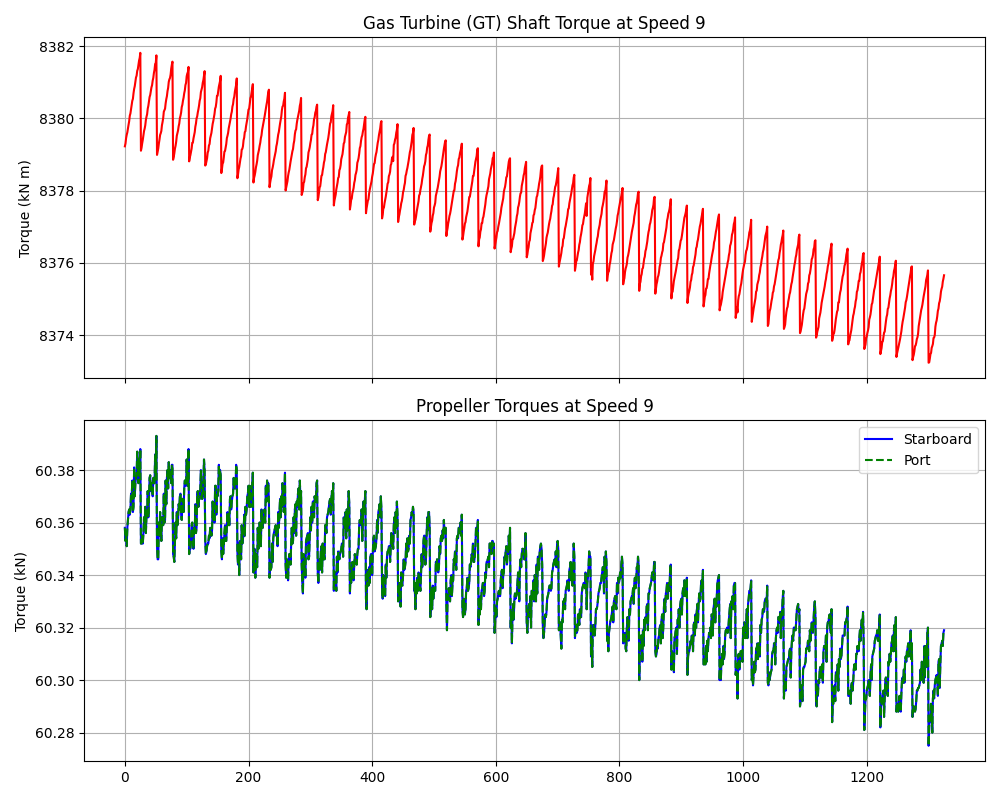
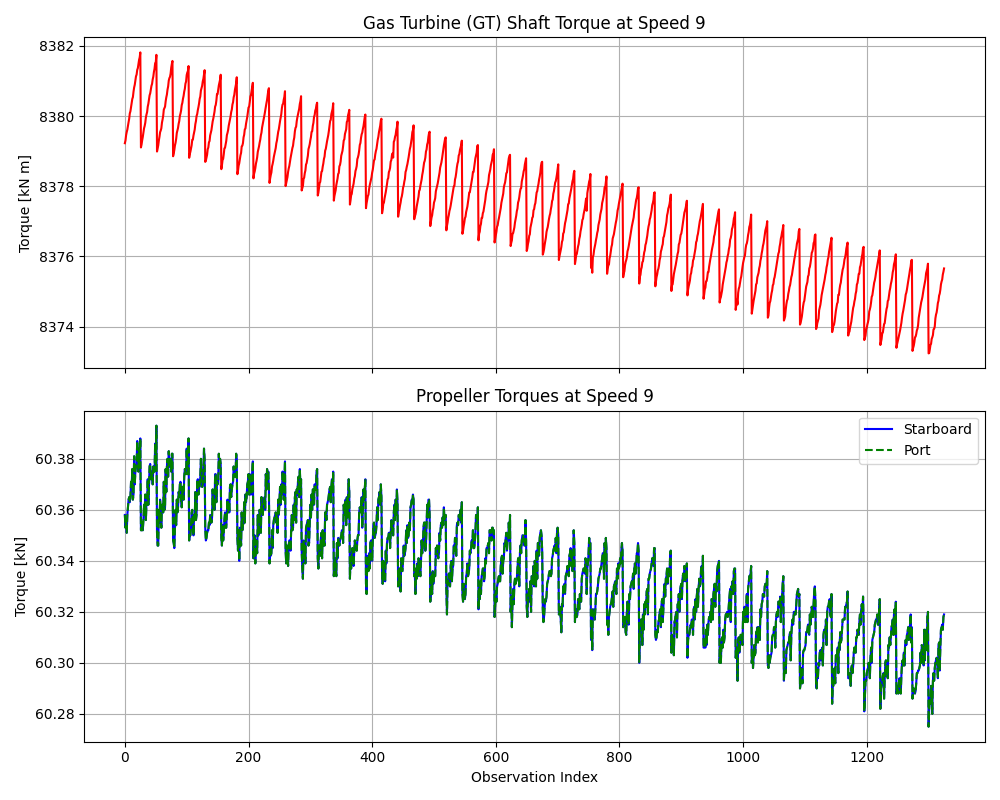
Fixed main saved images and svm edited

diff --git a/main.py b/main.py
@@ -1,91 +1,86 @@
 import pandas as pd
 import matplotlib.pyplot as plt
 import seaborn as sns
+import os
+
+# 1. Setup and Path Configuration
 plt.close('all')
-# 1. Load data
+# Define the directory where images will be saved
+image_dir = 'images'
+if not os.path.exists(image_dir):
+    os.makedirs(image_dir)
+
+# 2. Load and Initial Cleaning
 df = pd.read_csv('Data/data.csv')
 df.columns = df.columns.str.strip()
 
-# 2. Capture the duplicates before dropping them
+# 3. Capture and Handle Duplicates
 # keep='first' marks all but the first occurrence as a duplicate
 duplicate_rows = df[df.duplicated(keep='first')]
 
-# Save the duplicates to a list of dictionaries (if you want a Python list)
-dropped_duplicates_list = duplicate_rows.to_dict('records')
-
-# OR Save them to a CSV file to inspect them 
 if not duplicate_rows.empty:
     duplicate_rows.to_csv('dropped_duplicates.csv', index=False)
     print(f"Captured {len(duplicate_rows)} duplicate rows.")
 else:
     print("No duplicates found.")
 
-# 3. Now proceed with cleaning the main dataframe
+# Proceed with cleaning the main dataframe
 df = df.drop_duplicates()
 df = df.dropna()
 
 speed_counts = df['Ship speed (v)'].value_counts().sort_index()
+print("Speed observation counts:\n", speed_counts)
 
-print(speed_counts)
-
-# Define the columns we want to track
-gt_torque = 'Gas Turbine (GT) shaft torque (GTT) [kN m]'
-prop_torques = ['Starboard Propeller Torque (Ts) [kN]', 'Port Propeller Torque (Tp) [kN]']
-
-# Get a sorted list of all unique speeds (3, 6, 9, etc.)
-unique_speeds = sorted(df['Ship speed (v)'].unique())
-
-# Loop through each speed and generate a plot
-for speed in unique_speeds:
-    # Filter data for the current speed
-    speed_df = df[df['Ship speed (v)'] == speed].reset_index(drop=True)
-
-    # Create the subplots
-    fig, axes = plt.subplots(2, 1, figsize=(10, 8), sharex=True)
-
-    # Top Graph: GT Shaft Torque
-    axes[0].plot(speed_df[gt_torque], color='red')
-    axes[0].set_title(f'Gas Turbine (GT) Shaft Torque at Speed {speed}')
-    axes[0].set_ylabel('Torque [kN m]')
-    axes[0].grid(True)
-
-    # Bottom Graph: Propeller Torques
-    axes[1].plot(speed_df[prop_torques[0]], color='blue', label='Starboard')
-    axes[1].plot(speed_df[prop_torques[1]], color='green', linestyle='--', label='Port')
-    axes[1].set_title(f'Propeller Torques at Speed {speed}')
-    axes[1].set_ylabel('Torque [kN]')
-    axes[1].set_xlabel('Observation Index')
-    axes[1].legend()
-    axes[1].grid(True)
-
-    plt.tight_layout()
-
-
-    # Close the plot to free up memory before moving to the next one
-    plt.show()
+# 4. Define Column Names (matching root main.py headers)
 speed_col = 'Ship speed (v)'
-torque_col = 'Gas Turbine (GT) shaft torque (GTT) [kN m]'
+gt_torque_col = 'Gas Turbine (GT) shaft torque (GTT) [kN m]'
+prop_torques = ['Starboard Propeller Torque (Ts) [kN]', 'Port Propeller Torque (Tp) [kN]']
 fuel_col = 'Fuel flow (mf) [kg/s]'
 
-# 2. Preparation
+# Get sorted list of unique speeds for the loop
 unique_speeds = sorted(df[speed_col].unique())
-plt.close('all')  # Clear any lingering plots in memory/PyCharm cache
 
-# 3. Automation Loop
+# 5. Automation Loop for Speed-Based Visualization
 for speed in unique_speeds:
     # Filter data for this specific speed
     speed_df = df[df[speed_col] == speed].reset_index(drop=True)
 
-    # Create a figure with 2 subplots (top and bottom)
-    fig, (ax1, ax2) = plt.subplots(2, 1, figsize=(10, 8), sharex=True)
+    # --- PLOT 1: GT Shaft Torque & Propeller Torques ---
+    fig1, axes1 = plt.subplots(2, 1, figsize=(10, 8), sharex=True)
 
-    # Plot 1: Turbine Torque
-    ax1.plot(speed_df[torque_col], color='tab:red', linewidth=1.5)
+    # Top Graph: GT Shaft Torque
+    axes1[0].plot(speed_df[gt_torque_col], color='red')
+    axes1[0].set_title(f'Gas Turbine (GT) Shaft Torque at Speed {speed}')
+    axes1[0].set_ylabel('Torque [kN m]')
+    axes1[0].grid(True)
+
+    # Bottom Graph: Propeller Torques
+    axes1[1].plot(speed_df[prop_torques[0]], color='blue', label='Starboard')
+    axes1[1].plot(speed_df[prop_torques[1]], color='green', linestyle='--', label='Port')
+    axes1[1].set_title(f'Propeller Torques at Speed {speed}')
+    axes1[1].set_ylabel('Torque [kN]')
+    axes1[1].set_xlabel('Observation Index')
+    axes1[1].legend()
+    axes1[1].grid(True)
+
+    plt.tight_layout()
+    # Save propeller torque plots to images directory
+    prop_path = os.path.join(image_dir, f'propeller_torque_speed_{speed}.png')
+    plt.savefig(prop_path)
+    print(f"Saved: {prop_path}")
+    plt.show()
+    plt.close(fig1)
+
+    # --- PLOT 2: Turbine Torque & Fuel Flow Rate ---
+    fig2, (ax1, ax2) = plt.subplots(2, 1, figsize=(10, 8), sharex=True)
+
+    # Top Plot: Turbine Torque
+    ax1.plot(speed_df[gt_torque_col], color='tab:red', linewidth=1.5)
     ax1.set_title(f'Turbine Torque at Speed {speed}')
     ax1.set_ylabel('Torque [kN m]')
     ax1.grid(True, linestyle='--', alpha=0.7)
 
-    # Plot 2: Fuel Flow Rate
+    # Bottom Plot: Fuel Flow Rate
     ax2.plot(speed_df[fuel_col], color='tab:orange', linewidth=1.5)
     ax2.set_title(f'Fuel Flow Rate at Speed {speed}')
     ax2.set_ylabel('Fuel flow [kg/s]')
@@ -93,14 +88,12 @@ for speed in unique_speeds:
     ax2.grid(True, linestyle='--', alpha=0.7)
 
     plt.tight_layout()
-
-    # 4. Save and Clean Up
-    filename = f'torque_and_fuel_speed_{speed}.png'
-    plt.savefig(filename)
-    print(f"Generated plot for speed {speed}: {filename}")
+    # Save fuel flow plots to images directory
+    fuel_path = os.path.join(image_dir, f'torque_and_fuel_speed_{speed}.png')
+    plt.savefig(fuel_path)
+    print(f"Saved: {fuel_path}")
     plt.show()
-    # Close the figure after saving to keep the PyCharm Plot tab clean
-    plt.close(fig)
+    plt.close(fig2)
 
 # Final safety clear
 plt.close('all')

diff --git a/src/models/SVM.py b/src/models/SVM.py
@@ -42,7 +42,7 @@ def train_svm(train_path, test_path, target_col, image_dir=None):
     X_train_scaled = scaler.fit_transform(X_train)
     X_test_scaled = scaler.transform(X_test)
 
-    model = SVR(kernel='rbf', C=10.0, epsilon=0.001)
+    model = SVR(kernel='rbf', C=10.0, epsilon=0.0001)
     model.fit(X_train_scaled, y_train)
 
     target_name = "Compressor" if "Compressor" in target_col else "Turbine"
